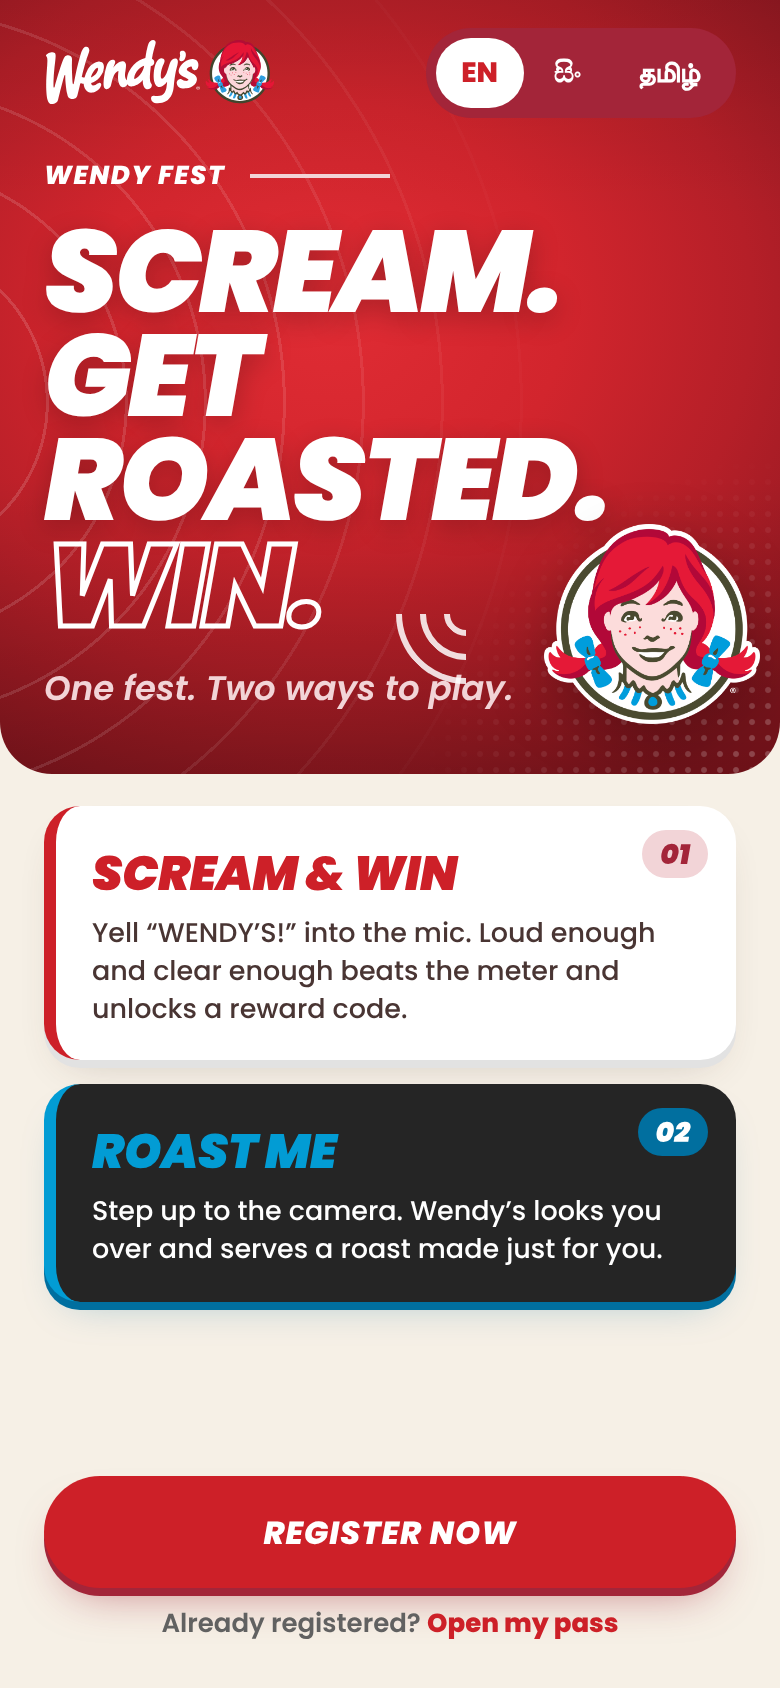
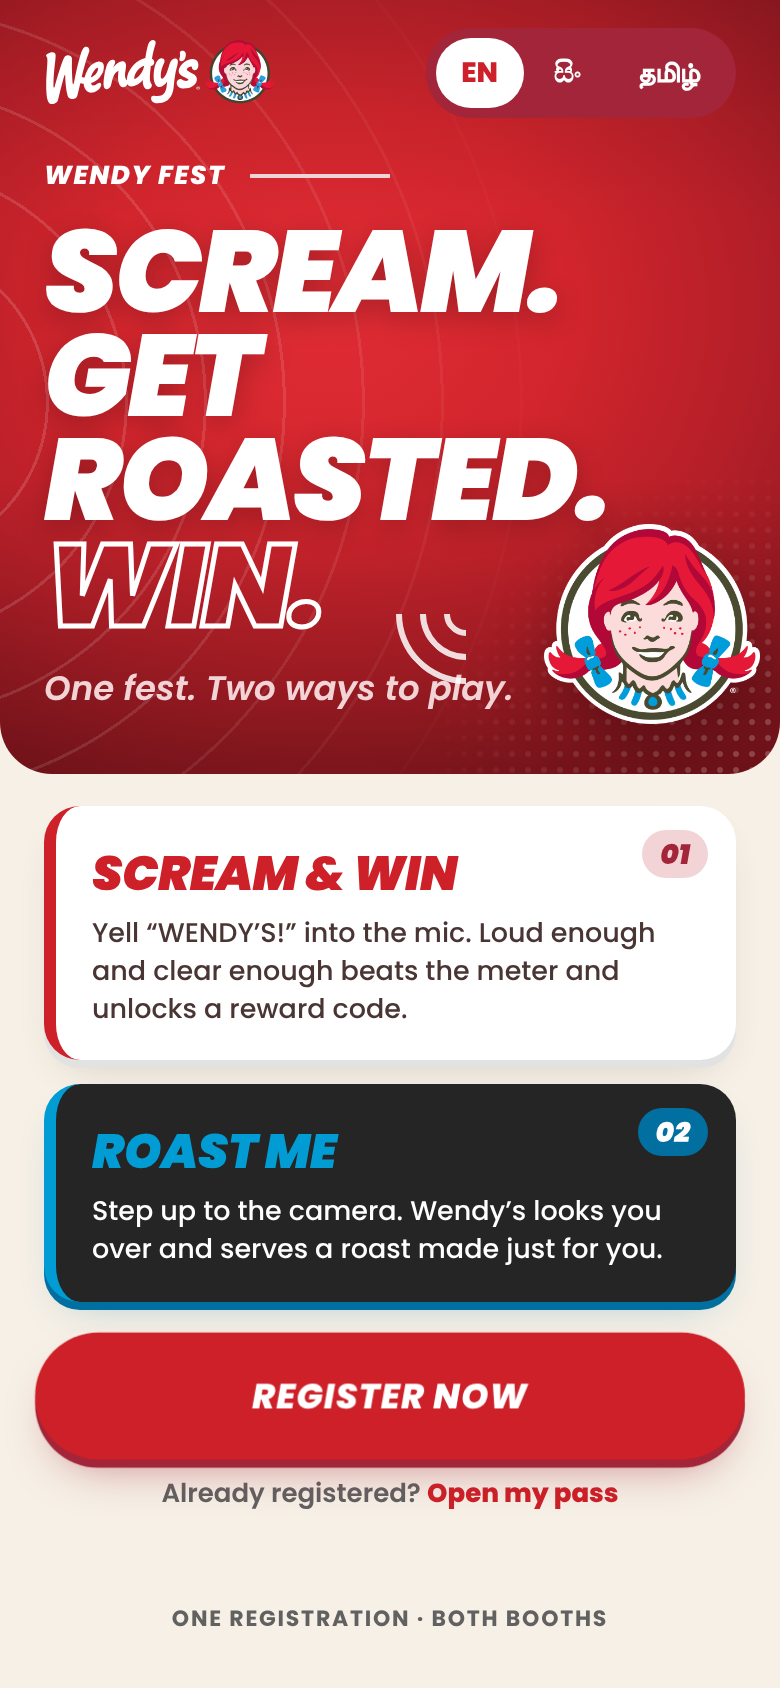
Design proposal: landing CTA moved up under the activity cards with shine sweep
Claude-Session: https://claude.ai/code/session_015MHPvZ3kkn8jw5YatKY7r4

Changed region(s): [[0.0308, 0.7701, 0.9538, 0.9858]]

diff --git a/design/after.css b/design/after.css
@@ -128,3 +128,10 @@ body { font-family: Poppins, system-ui, sans-serif; color:var(--ink); background
 .consent { font-size:12.5px; color:var(--charcoal); padding:2px 2px 14px; align-items:center; }
 .consent span { line-height:1.35; }
 .form .btn { margin-top:2px; }
+
+/* landing CTA: shine sweep */
+.cta-a { position:relative; overflow:hidden; height:62px; font-size:17px; animation:pulse 1.8s ease-in-out infinite; }
+.cta-a::after { content:""; position:absolute; top:-50%; bottom:-50%; width:40px; background:linear-gradient(90deg, transparent, rgba(255,255,255,.45), transparent); transform:skewX(-20deg); animation:shine 2.4s ease-in-out infinite; }
+@keyframes pulse { 0%,100% { transform:scale(1) } 50% { transform:scale(1.03) } }
+@keyframes shine { 0% { left:-60px } 60%,100% { left:110% } }
+.foot-note { margin-top:auto; text-align:center; font-size:11px; letter-spacing:.08em; text-transform:uppercase; font-weight:700; color:var(--mute); padding-bottom:4px; }

diff --git a/design/after.html b/design/after.html
@@ -24,10 +24,11 @@
   <div class="body" style="gap:12px;padding-top:16px">
     <div class="mcard"><div class="num">01</div><div class="t">Scream &amp; Win</div><div class="d">Yell “WENDY’S!” into the mic. Loud enough and clear enough beats the meter and unlocks a reward code.</div></div>
     <div class="mcard dark"><div class="num">02</div><div class="t">Roast Me</div><div class="d">Step up to the camera. Wendy’s looks you over and serves a roast made just for you.</div></div>
-    <div style="margin-top:auto;display:grid;gap:8px">
-      <a class="btn" href="#">Register now</a>
+    <div style="display:grid;gap:8px;margin-top:4px">
+      <a class="btn cta-a" href="#">Register now</a>
       <div class="link">Already registered? <b>Open my pass</b></div>
     </div>
+    <div class="foot-note">One registration · both booths</div>
   </div>
 </section>
 
